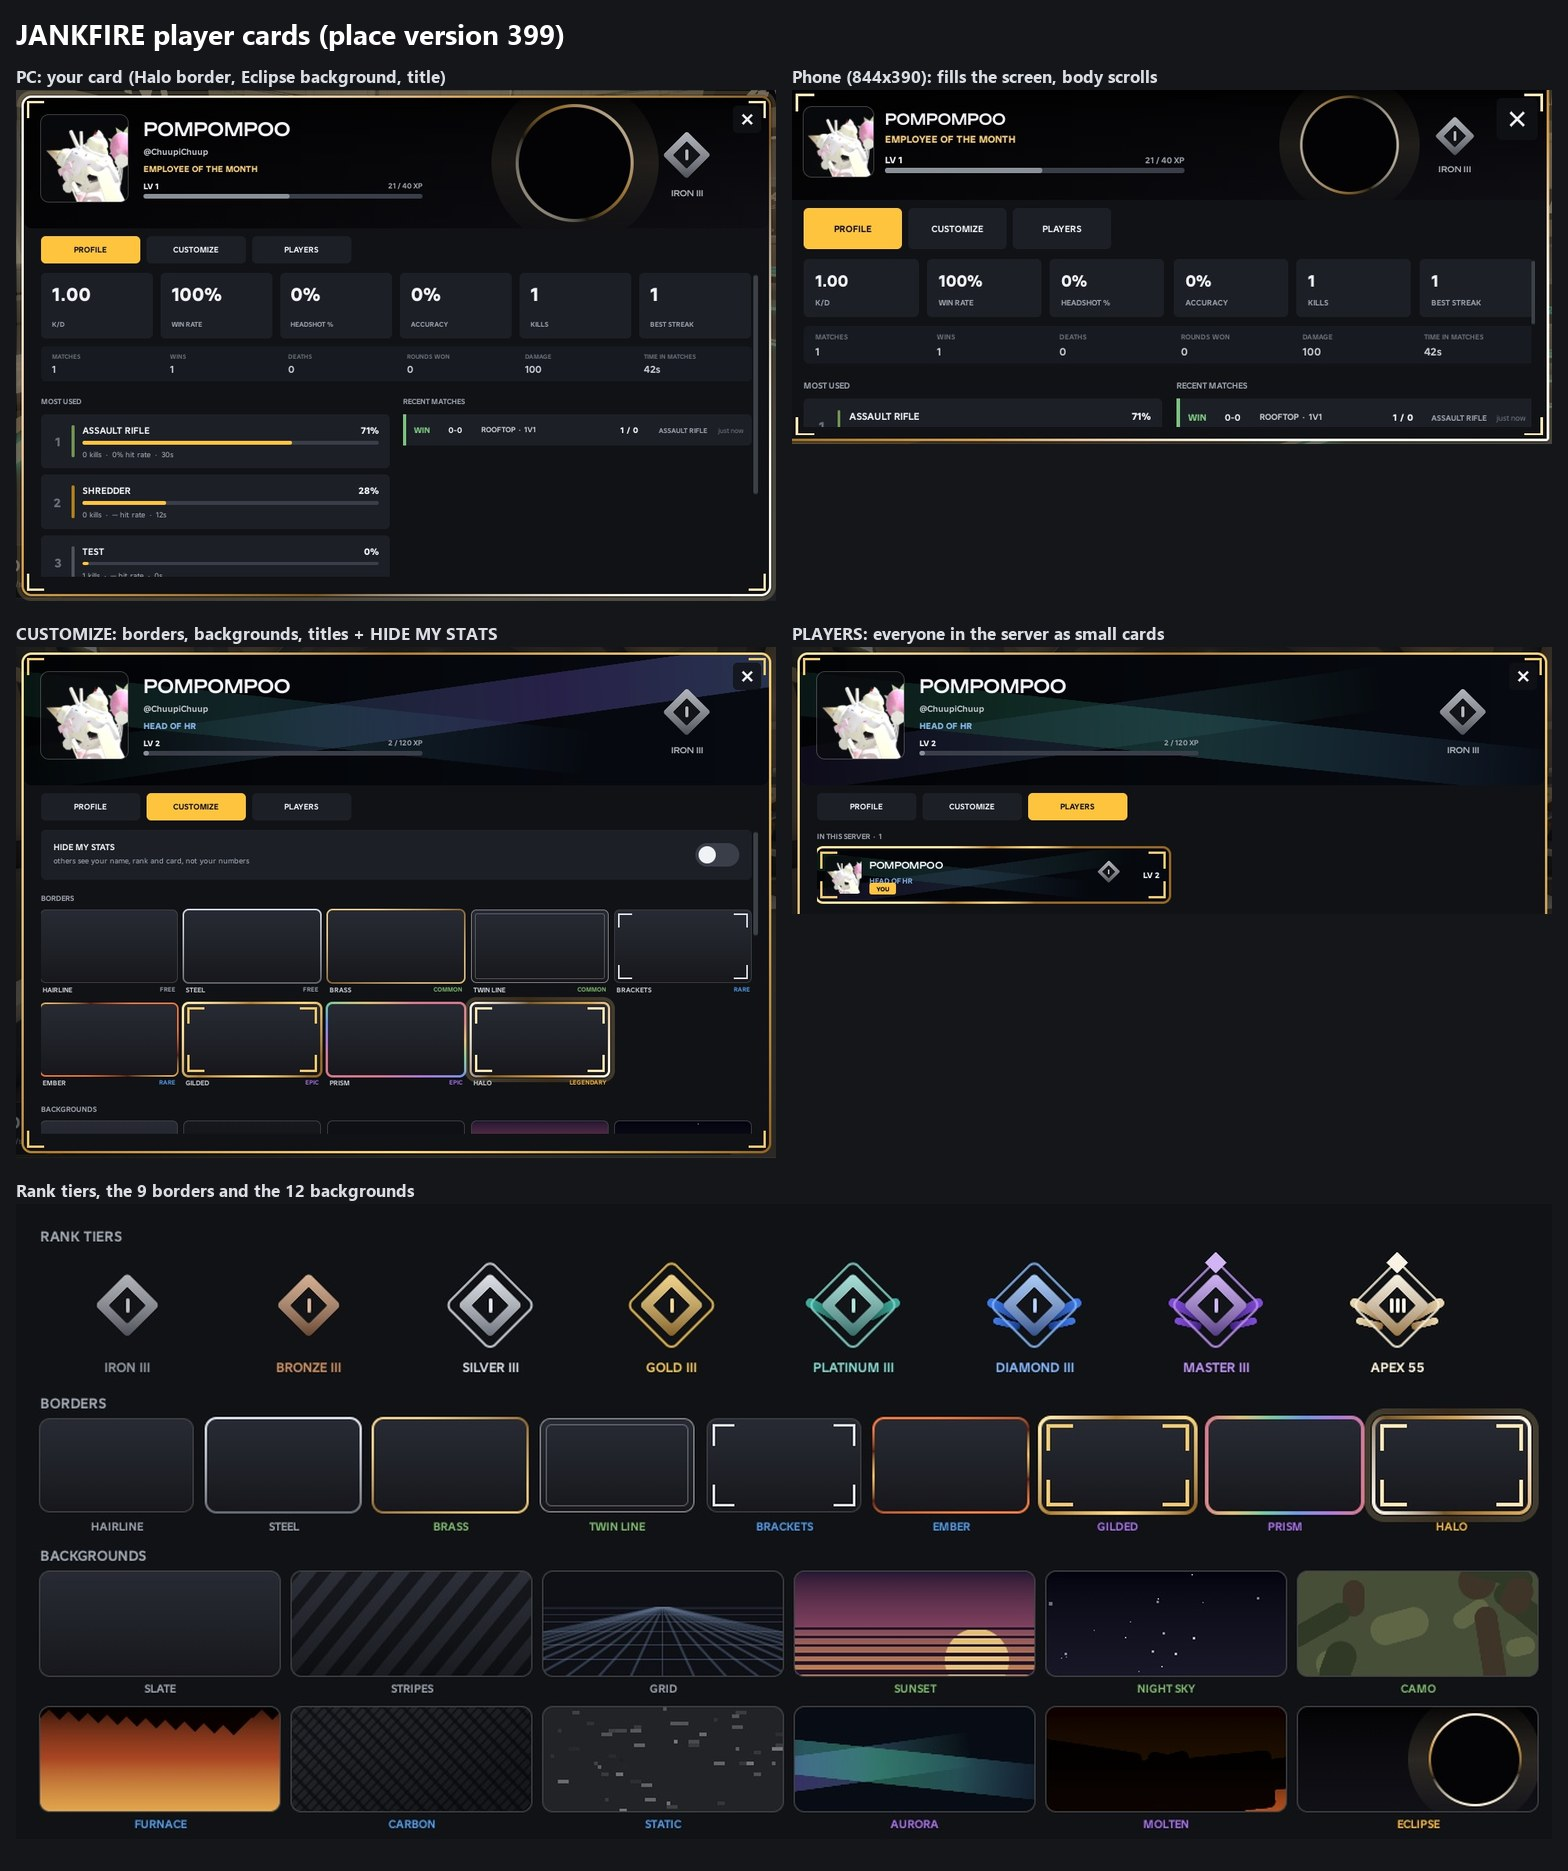
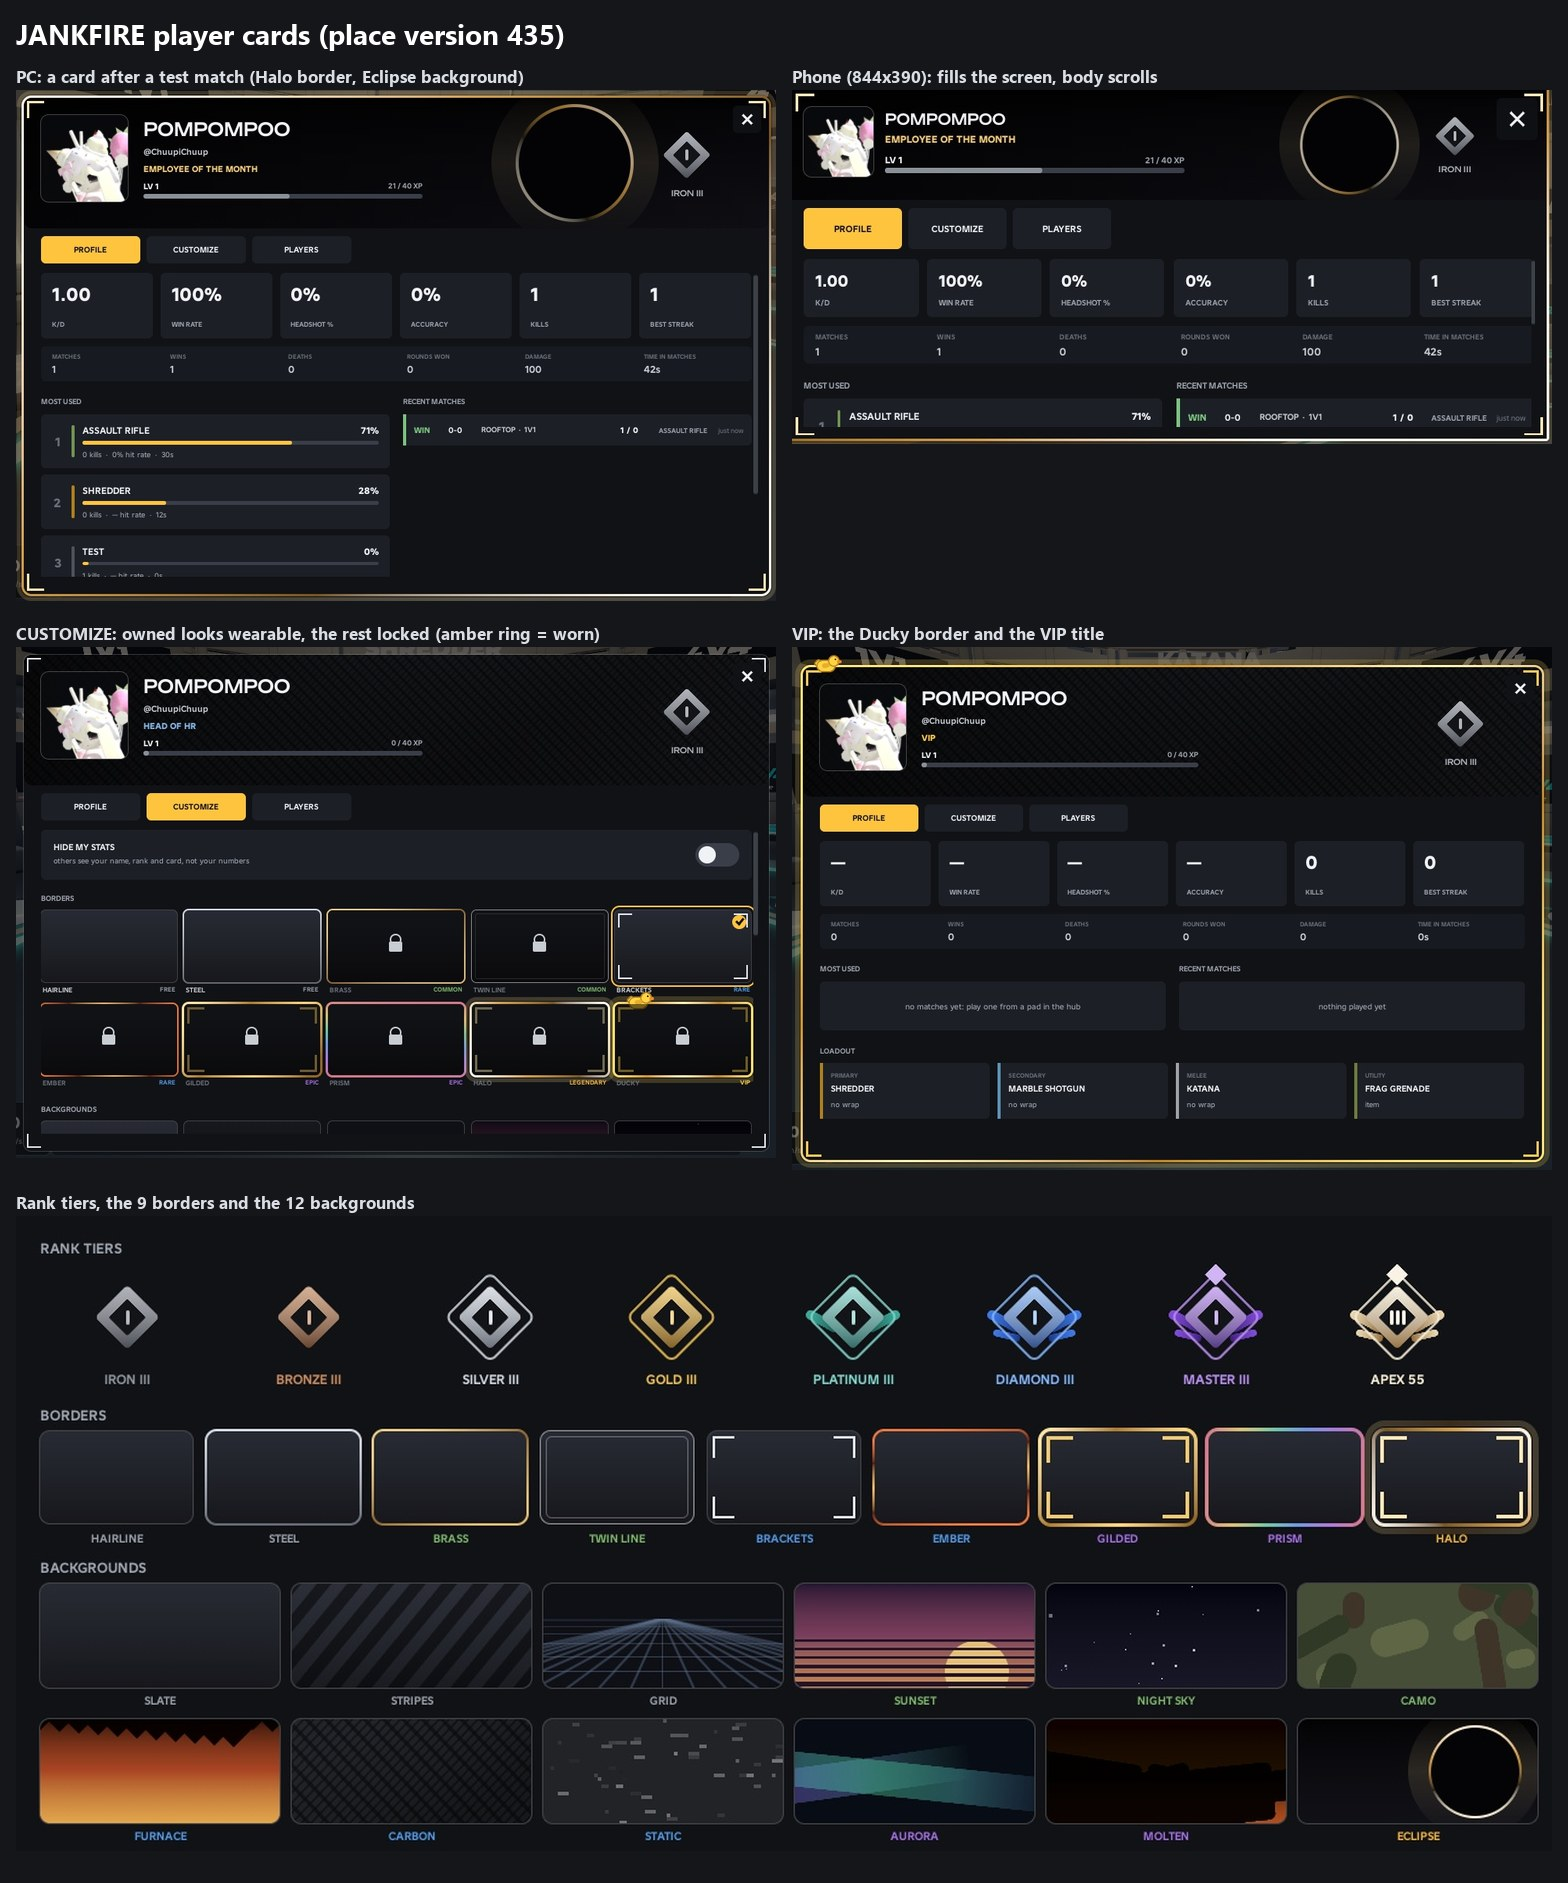
Roblox player cards: VIP Ducky border and VIP title, picker polish (place version 435)
- The VIP pack's card looks: border "ducky" (a yellow-gold shimmer, a glow, gold corners, and a small duck drawn on the top edge) and title "vip" ("VIP"). Their rarity is "vip" and info() carries vip = true.
  - They never roll from a container: LootTable skips unknown rarities.
  - CardStyles.forSale leaves them out, so they never join the shop rotation.
  - Only Loot.grant of the shop's VIP offer gives them. In the picker they show locked: "VIP pack only".
- Picker: the worn tile has a visible amber ring and a tick, and the YOU chip in the player list sits clear of the title.
- Tested in Play: the shop's Head Office grant shows as owned and can be worn; unowned looks are refused.

diff --git a/roblox/docs/PROFILES.md b/roblox/docs/PROFILES.md
@@ -92,10 +92,15 @@ codes or logos (see `roblox-upload-content-rules`).
 
 | type | free (everyone owns) | in the loot pool |
 |---|---|---|
-| border (9) | Hairline, Steel | Brass, Twin Line (common) · Brackets, Ember (rare) · Gilded, Prism (epic) · Halo (legendary) |
+| border (9 + Ducky, VIP) | Hairline, Steel | Brass, Twin Line (common) · Brackets, Ember (rare) · Gilded, Prism (epic) · Halo (legendary) |
 | background (12) | Slate, Stripes, Grid | Sunset, Night Sky, Camo (common) · Furnace, Carbon, Static (rare) · Aurora, Molten (epic) · Eclipse (legendary) |
-| title (16) | none, ROOKIE, NEW HIRE | the web game's end-of-match medals: FIRST BLOOD, TWO FOR ONE, FILED A COMPLAINT, CONSCIENTIOUS OBJECTOR (common) · HEAD OF HR, LONG DISTANCE CALL, HANDS-ON MANAGER, WASTE DISPOSAL (rare) · BULK DISCOUNT, ON A TEAR, OVER THE LIMIT (epic) · UNTOUCHABLE, EMPLOYEE OF THE MONTH (legendary) |
+| title (16 + VIP) | none, ROOKIE, NEW HIRE | the web game's end-of-match medals: FIRST BLOOD, TWO FOR ONE, FILED A COMPLAINT, CONSCIENTIOUS OBJECTOR (common) · HEAD OF HR, LONG DISTANCE CALL, HANDS-ON MANAGER, WASTE DISPOSAL (rare) · BULK DISCOUNT, ON A TEAR, OVER THE LIMIT (epic) · UNTOUCHABLE, EMPLOYEE OF THE MONTH (legendary) |
 
+- **VIP only** (rarity `vip`, added 16 Nov for the shop session's VIP pack):
+  - **Ducky** border: a yellow-gold shimmer, a warm glow, gold corners, and a small duck drawn from rounded shapes, sitting on the top edge;
+  - **VIP** title (the shop session picks its words).
+
+  They are granted only through `Loot.grant` of the VIP offer. LootTable's card hook skips rarities it doesn't know, so they never roll from a container. `CardStyles.forSale` leaves them out of the shop's rotation. In the picker, a VIP item you don't own shows locked: "VIP pack only".
 - **Backgrounds** start from the web game's name-card backgrounds (`public/js/cards.js`: stripes, grid, sunset, stars, camo, flames, static), made quieter.
 - **Left out:** the web game's magenta "missing texture" checker (too loud), and ORGAN DONOR (gore).
 - **Animated pieces:** Ember, Prism and Halo turn slowly, and so do Aurora, Molten and Eclipse. One loop drives every gradient on screen.
@@ -162,12 +167,15 @@ The loadout on a card is read from the player's own attributes (`LoadoutNext`, `
 | click | a real mouse click (crosshair) on a stand-in in the hub opened the card |
 | layout | PC 1289x753 and a phone-sized 844x390 box (fills it, the body scrolls, buttons ≥ 46 px) |
 
+| looks you own, through real grants (place version 435) | the shop's Head Office bundle, claimed into the owner's loot inventory, shows in the picker as owned: Brackets, Carbon, HEAD OF HR. They can be worn; Halo and Ducky (not owned) are refused and shown locked. Ducky's lock reads "VIP pack only" |
+| VIP looks (Studio unlock) | the Ducky border (the duck on the top edge) and the gold VIP title draw on the card and in the player list |
+
 After the tests the owner's stats were reset to zero and the look to the defaults (saved).
 
 Not checked end to end:
 
 - **Headshots.** My hand-made headshot claims were judged body shots by the server's own head check. The headshot flag reaches the stats through `Fight.onHurt`; the counting itself is the same code path as hits.
-- **A card look won from loot unlocking in the picker.** The loot dev `set` errored on card types: a bug in Loot.luau, reported to the loot session.
+- **A card look won from a Duffel Bag.** Ownership itself is proven by the shop's grants (the same `give` path). The loot dev `set` erred on card types; the loot session has fixed it.
 - **A real second player.** Studio's MCP only starts solo tests.
 
 ![photo sheet](profiles/profiles-sheet.jpg)
